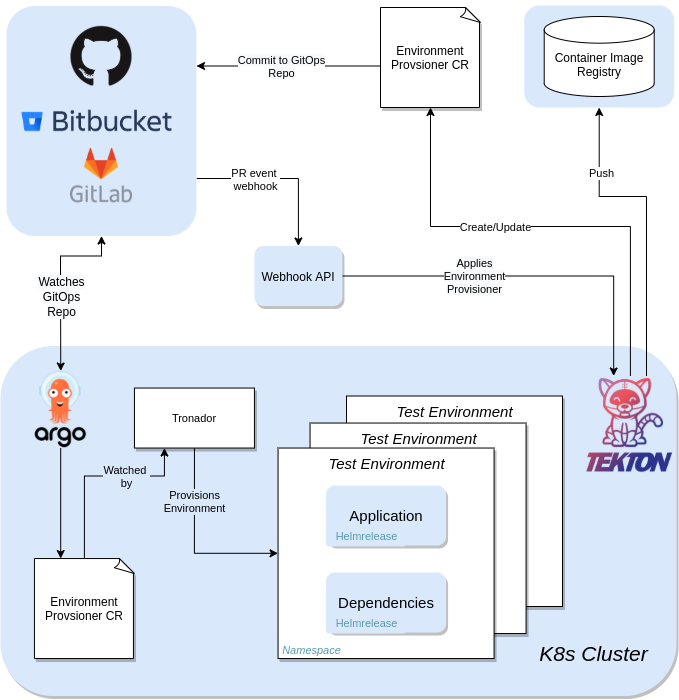
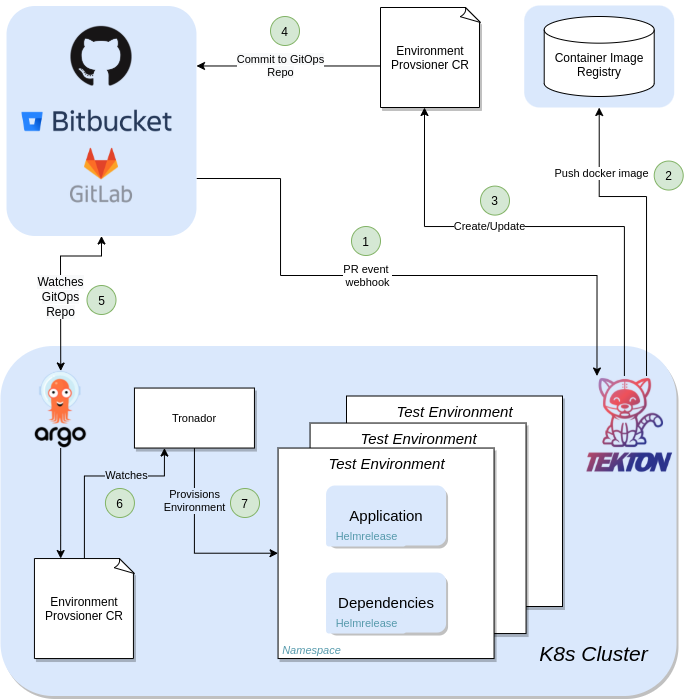
Update tronador diagram and overview for clarity

diff --git a/content/sre/tronador/overview.md b/content/sre/tronador/overview.md
@@ -18,13 +18,14 @@ Tronador is a utility designed to provision and manage a dynamic testing environ
 
 ## Architecture
 
-![architecture](images/architecture.png)
+![architecture](./images/architecture.png)
 
 Tronador comes with a CRD and a Tekton cluster task. The CRD, `EnvironmentProvisioner` , will be used for creating the environment within your cluster. The Tekton cluster task, `create-environment-provisioner` , will be used for automatically creating the `EnvironmentProvisioner` Custom Resource. The task depends on a [Tronador config file](./config_file.html) to be created in your repository, which will be used to create the CR. The `create-environment-provisioner` task can be used within your own Tekton pipeline, automating the process of creating and deploying the image of your application after changes are made to it. An example of a pipeline doing this would be:
 
-1. Create a new branch in your repository
-2. Create a config file in the branch
-3. Create a PR from that branch
-4. A webhook will trigger the Tekton pipeline
-5. The Tekton pipeline will create an image of that branch, and forward that image to the `EnvironmentProvisioner` CR
-6. The `EnvironmentProvisioner` CR will deploy the application to its testing environment within your cluster
+1. A webhook is created when a PR is opened, and the pipeline containing the `create-environment-provisioner` task is triggered.
+2. The pipeline will first create an image and push it to your container image registry.
+3. The pipeline will then create or update the `EnvironmentProvisioner` CR using that image.
+4. The CR will be pushed to your GitOps repository.
+5. ArgoCD will watch the GitOps repository for changes and synchronize any changes, like the `EnvironmentProvisioner` CR, to the cluster.
+6. The `EnvironmentProvisioner` CR will be watched by the `Tronador` Operator.
+7. Tronador will create a test environment for the application, by creating a HelmRelease for your application and external dependencies inside that environment

diff --git a/content/sre/tronador/cluster_task.md b/content/sre/tronador/cluster_task.md
@@ -29,7 +29,7 @@ data:
           releaseName: ${GIT_BRANCH}
           values:
     ${VALUES_OVERRIDE}
-    namespaceLabels:
+      namespaceLabels:
     ${NAMESPACE_LABELS}
     EOF
 ```
